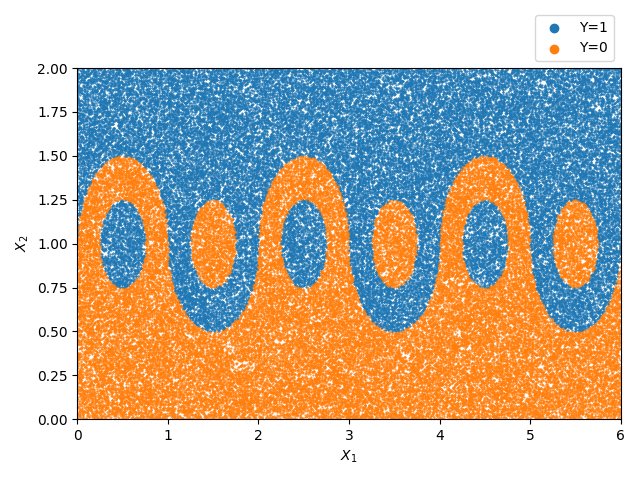
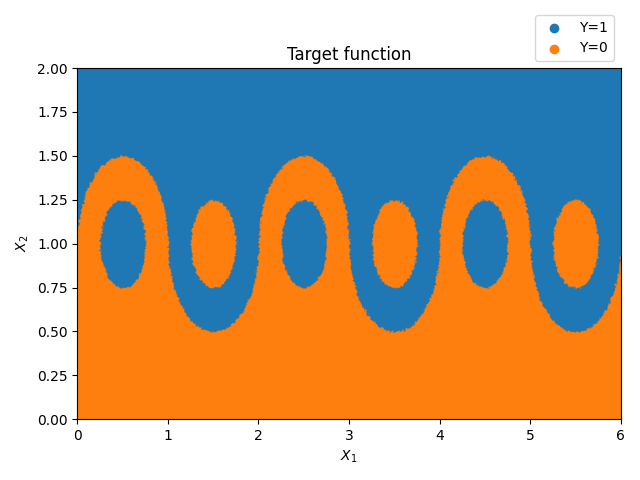
New plots

Changed region(s): [[0.125, 0.0938, 0.9688, 0.875]]

diff --git a/classification_problem_1/src/data_generation.py b/classification_problem_1/src/data_generation.py
@@ -45,4 +45,9 @@ def generate_train_test_data(train_size=5000, test_size=1000, num_erros=100):
 
 
 if __name__ == "__main__":
-    generate_train_test_data()
+    from analysis import plot_points
+    import matplotlib.pyplot as plt
+    points, groups = generate_data(10**6)
+    plot_points(points, groups)
+    plt.title("Target function")
+    plt.savefig("target_function.png")

diff --git a/classification_problem_1/src/analysis.py b/classification_problem_1/src/analysis.py
@@ -359,5 +359,3 @@ def comparison():
     plt.ylim([0, 1.3])
     plt.legend()
     plt.savefig("comparison.png")
-
-comparison()
